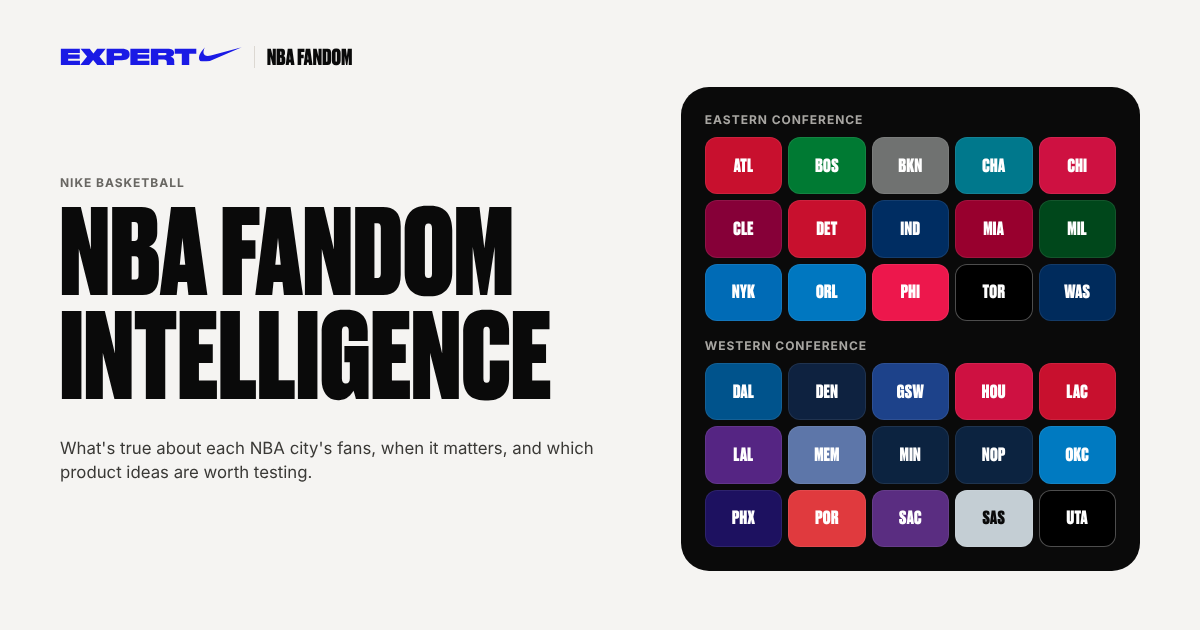
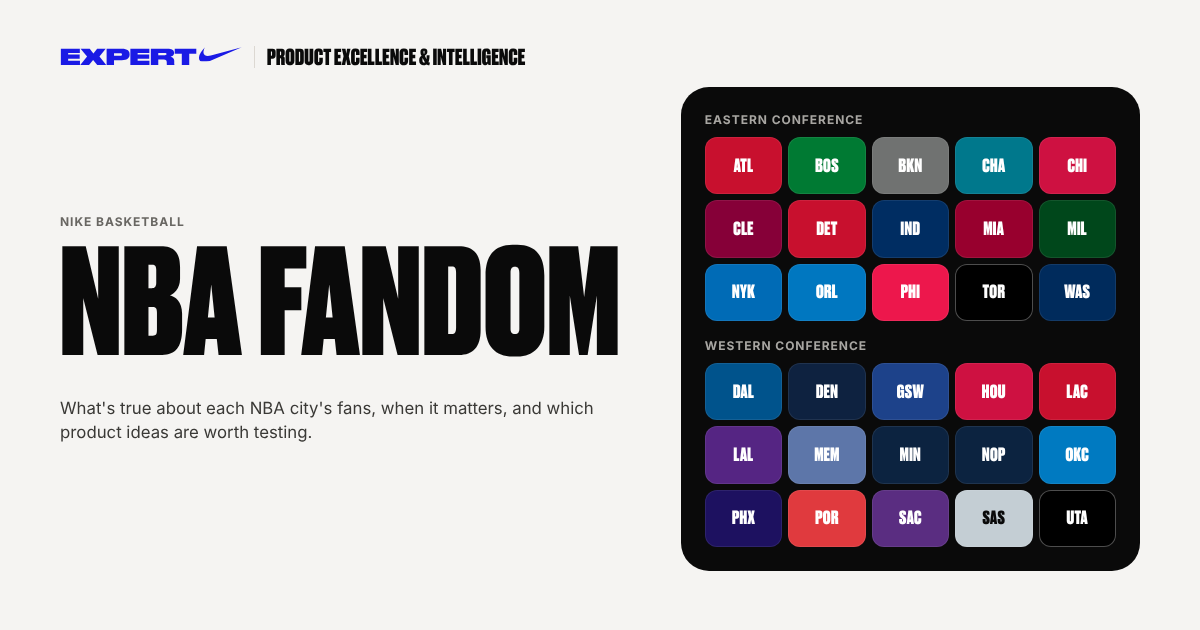
Front page: Product Excellence & Intelligence lockup, bigger NBA Fandom title, no search
The header reads EXPERT | PRODUCT EXCELLENCE & INTELLIGENCE (two lines on
phones). The title is NBA Fandom on one line, sized to fill its column.
The search box is gone; the team tiles below are the way in, and the smoke
test now opens a market from a tile.

Claude-Session: https://claude.ai/code/session_01RDpHxEvHiEg9pu3Wp7pKQz

Changed region(s): [[0.0308, 0.2714, 0.5242, 0.754], [0.2158, 0.0603, 0.4317, 0.1206]]

diff --git a/src/nba/pages/Overview.jsx b/src/nba/pages/Overview.jsx
@@ -2,7 +2,7 @@
 // glance, what you'll find inside, this month's moments across the league,
 // and every market as a card. How the research was done lives on the Method
 // page, one click from the footer.
-import React, { useMemo, useRef, useState } from "react";
+import React, { useMemo, useState } from "react";
 import { markets, today, ymLabel, heroColor, inkOn } from "../data.js";
 import { DIVISIONS, placeOf, logoUrl } from "../teams.js";
 import { Tier, TeamBand, href, SectionHead } from "../ui.jsx";
@@ -33,9 +33,8 @@ export default function Overview() {
       <section className="hc-home-hero">
         <div>
           <div className="hc-eyebrow" style={{ marginBottom: 14 }}>Nike Basketball</div>
-          <h1 className="hc-display hc-home-title"><span>NBA Fandom</span><span>Intelligence</span></h1>
+          <h1 className="hc-display hc-home-title">NBA Fandom</h1>
           <p className="hc-lede" style={{ marginTop: 22 }}>What's true about each NBA city's fans, when it matters, and which product ideas are worth testing.</p>
-          <TeamSearch />
           <p className="hc-small hc-muted" style={{ marginTop: 14 }}>All {markets.length} markets · updated {fmtDate(latestUpdate())}</p>
         </div>
         <MarketWall />
@@ -68,31 +67,6 @@ export default function Overview() {
         {!rows.length && <div className="hc-empty">Nothing matches that search.</div>}
       </section>
     </div>
-  );
-}
-
-// Jump straight to a market from the top of the page.
-function TeamSearch() {
-  const [q, setQ] = useState("");
-  const input = useRef(null);
-  const ql = q.trim().toLowerCase();
-  const hits = ql ? markets.filter((m) => `${placeOf(m.team)} ${m.team.city} ${m.team.name} ${m.team.abbr}`.toLowerCase().includes(ql)).slice(0, 6) : [];
-  const go = (id) => { window.location.hash = href("m", id); };
-  return (
-    <form className="hc-search" role="search" onSubmit={(e) => {
-      e.preventDefault();
-      if (hits[0]) go(hits[0].id);
-      else if (!ql) document.getElementById("markets")?.scrollIntoView({ behavior: "smooth" });
-      else input.current?.focus();
-    }}>
-      <input ref={input} className="hc-input" placeholder="Find a team or city" value={q} onChange={(e) => setQ(e.target.value)} aria-label="Find a team or city" aria-autocomplete="list" aria-controls="hc-team-suggest" />
-      <button className="hc-btn" type="submit">Open</button>
-      {hits.length > 0 && (
-        <ul className="hc-suggest" id="hc-team-suggest">
-          {hits.map((m) => <li key={m.id}><a href={href("m", m.id)}><span className="hc-dot" style={{ background: m.team.colors[0] }} />{placeOf(m.team)} {m.team.name}</a></li>)}
-        </ul>
-      )}
-    </form>
   );
 }
 

diff --git a/src/nba/homecourt.css b/src/nba/homecourt.css
@@ -23,6 +23,7 @@
 .hc-brand { display: inline-flex; align-items: center; gap: 12px; text-decoration: none; }
 .hc-brand-divider { width: 1px; height: 22px; background: var(--border); }
 .hc-brand-name { font-family: var(--font-display); font-weight: 900; font-size: 22px; letter-spacing: 0.01em; text-transform: uppercase; line-height: 1; padding-top: 3px; }
+@media (max-width: 520px) { .hc-brand { gap: 10px; } .hc-brand-name { font-size: 15px; line-height: 1.05; max-width: 10.5em; } .hc-brand-divider { height: 30px; } }
 .hc-nav { display: flex; gap: 6px; flex-wrap: wrap; }
 .hc-nav a { text-decoration: none; font-size: 14px; font-weight: 600; padding: 8px 14px; border-radius: var(--radius-pill); color: var(--text); }
 .hc-nav a:hover { background: var(--surface); }
@@ -193,8 +194,8 @@
 .hc-wall-tile-black { box-shadow: inset 0 0 0 1px rgba(255, 255, 255, 0.3); }
 .hc-wall-tile:hover, .hc-wall-tile:focus-visible { transform: translateY(-2px); box-shadow: inset 0 0 0 2px #fff; }
 .hc-wall-logo { position: absolute; inset: 14% 16%; width: 68%; height: 72%; object-fit: contain; display: block; filter: drop-shadow(0 1px 1.5px rgba(0, 0, 0, 0.35)); }
-.hc-home-title { font-size: clamp(2.6rem, 12vw, 7.4rem); }
-.hc-home-title span { display: block; white-space: nowrap; }
+.hc-home-hero > div:first-child { container-type: inline-size; }
+.hc-home-title { font-size: min(24.5cqi, 11rem); white-space: nowrap; }
 @media (max-width: 520px) { .hc-wall-grid { gap: 4px; } .hc-wall-tile { border-radius: 9px; padding: 5px 6px; font-size: 13px; } }
 
 /* What's inside: four doors */

diff --git a/src/nba/ui.jsx b/src/nba/ui.jsx
@@ -37,10 +37,10 @@ export function Header({ route }) {
   const link = (to, label, active) => <a href={to} aria-current={active ? "page" : undefined}>{label}</a>;
   return (
     <header className="hc-header">
-      <a className="hc-brand" href={href()} aria-label="Expert NBA Fandom: home">
+      <a className="hc-brand" href={href()} aria-label="Expert Product Excellence &amp; Intelligence: home">
         <ExpertMark />
         <span className="hc-brand-divider" />
-        <span className="hc-brand-name">NBA Fandom</span>
+        <span className="hc-brand-name">Product Excellence &amp; Intelligence</span>
       </a>
       <nav className="hc-nav" aria-label="Primary">
         {link(href(), "Markets", section === "" || section === "m")}
